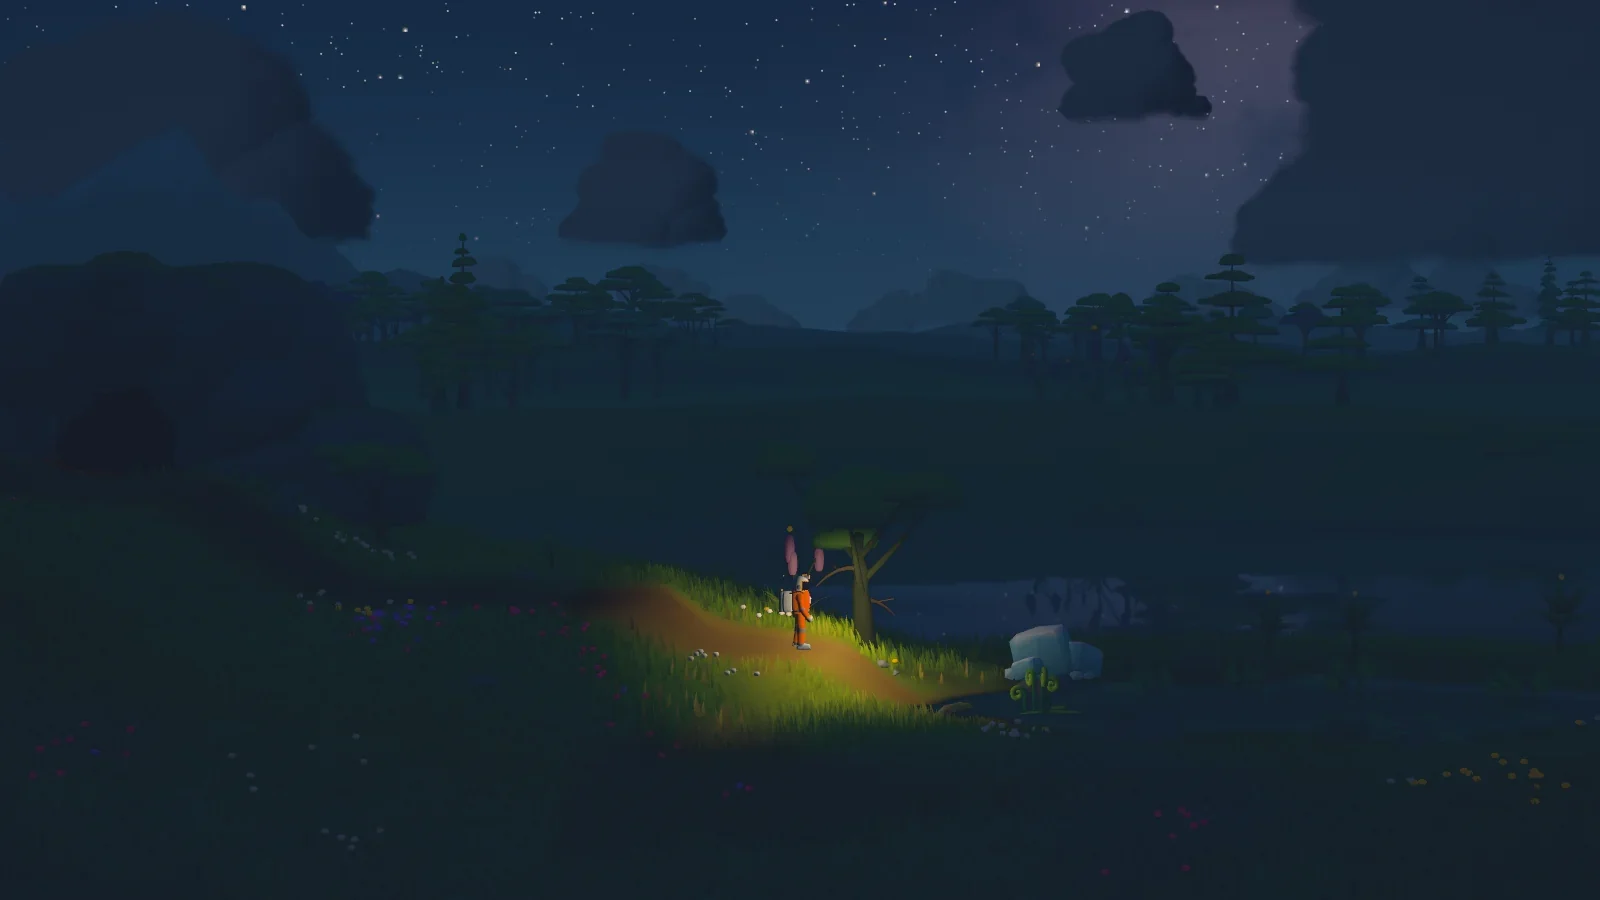
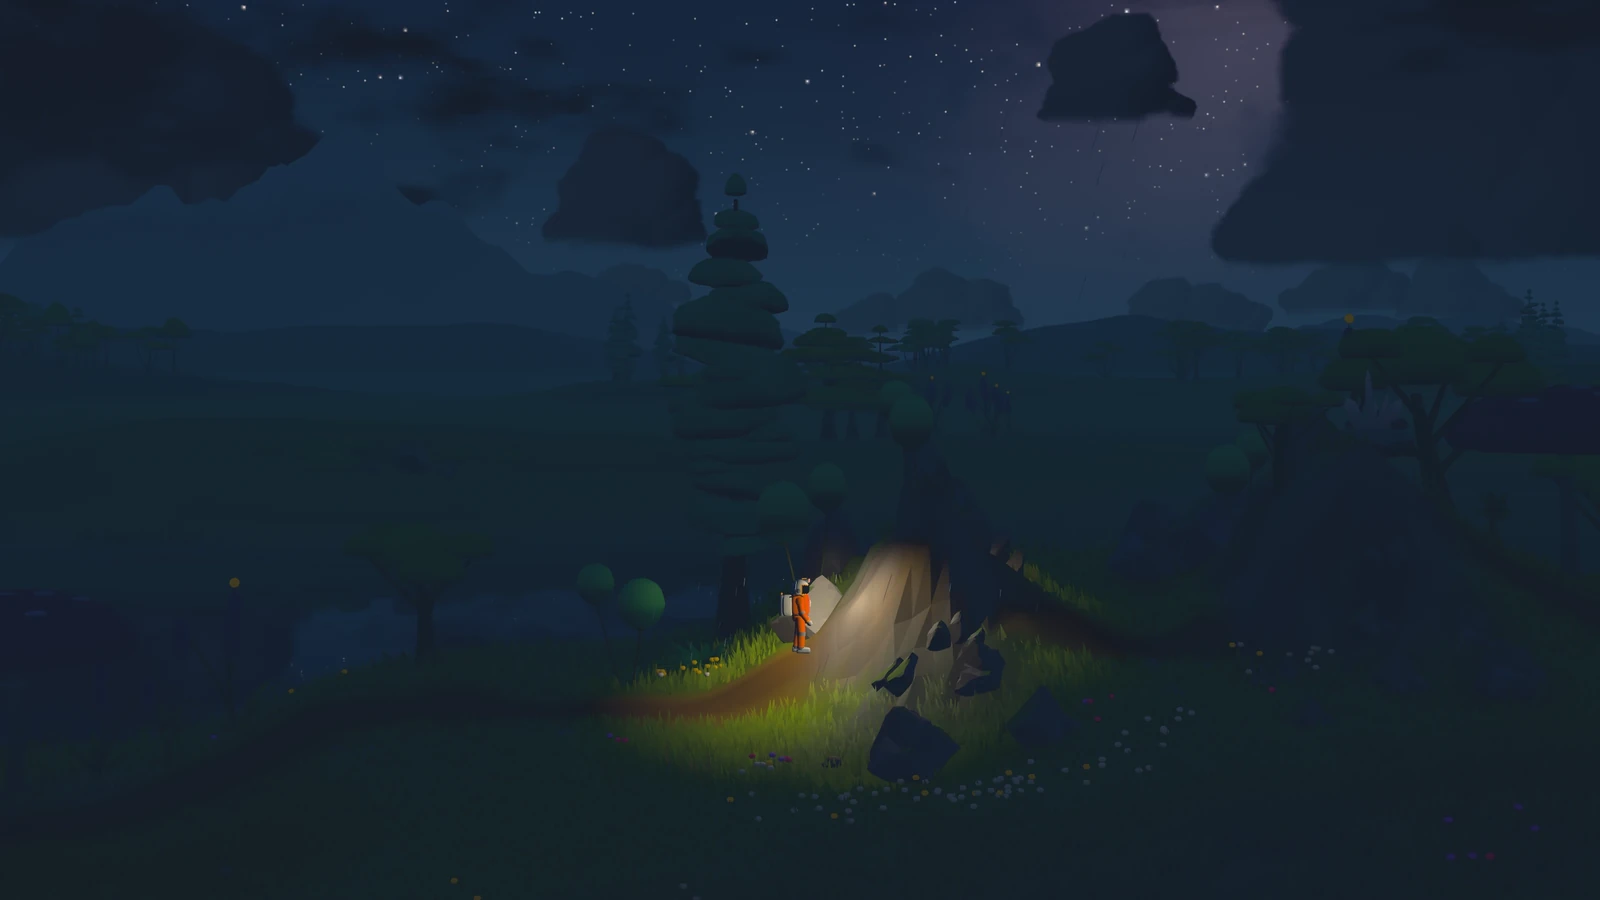
site: sharpen for 4K -- 3840 frames, gallery arrows, «what's new»
The author's screen is 4K: at 3840 CSS (100%) and at 2560 CSS x1.5 the
full-bleed frames needed 3840 device pixels and got 3200, a 1.2x
upscale. The seven full-bleed frames now have a 3840x2160 twin
(<name>-3840.webp, 98-449 KB, rendered from the same 0.498.3 stand at
--dpr 2.4) and the mechanics header is an <img> with the same srcset
instead of a CSS background that could only say 1x/2x.

ice and night are new frames: their scene scripts are not in the repo,
so the old 1600 files could not be reproduced at any higher density --
they were re-shot from the same stand (surface2, mkview night) at
3200/3840 and the old 1600 files replaced by the same frame, so all
three sizes are one picture. Look changed slightly (the ice frame is now
a ridge over a cave, the night one is the same place from another
camera).

Also: the gallery strip gets prev/next arrows on desktop (it showed two
and a half cards with no sign that it scrolls), and the roadmap gets a
«what's new» line with the live version from version.json.

diff --git a/site/index.html b/site/index.html
@@ -123,7 +123,7 @@
 <!-- ── сцены: по одному кадру на то, чем вы заняты ── -->
 <section class="scene right" id="planet">
   <div class="num"><b>01</b>посадка</div>
-  <div class="bg"><img src="/shots/land.webp" srcset="/shots/land.webp 1600w, /shots/land-2x.webp 3200w" sizes="100vw" width="1600" height="900" loading="lazy" alt="Корабль только что сел на зелёной планете у озера; вдали горы, в небе облака и гигантские грибы"></div>
+  <div class="bg"><img src="/shots/land.webp" srcset="/shots/land.webp 1600w, /shots/land-2x.webp 3200w, /shots/land-3840.webp 3840w" sizes="100vw" width="1600" height="900" loading="lazy" alt="Корабль только что сел на зелёной планете у озера; вдали горы, в небе облака и гигантские грибы"></div>
   <div class="shade"></div>
   <div class="in">
     <div class="plate amber">
@@ -138,7 +138,7 @@
 
 <section class="scene" id="walk">
   <div class="num"><b>02</b>пешком</div>
-  <div class="bg"><img src="/shots/ice.webp" width="1600" height="900" loading="lazy" alt="Ледяная планета на закате: корабль на снежном холме, человек в скафандре идёт по склону, вдали белая гора"></div>
+  <div class="bg"><img src="/shots/ice.webp" srcset="/shots/ice.webp 1600w, /shots/ice-2x.webp 3200w, /shots/ice-3840.webp 3840w" sizes="100vw" width="1600" height="900" loading="lazy" alt="Ледяная планета на закате: человек в скафандре стоит на снежном гребне над пещерой, вокруг склоны и белая гора вдали"></div>
   <div class="shade"></div>
   <div class="in">
     <div class="plate">
@@ -153,7 +153,7 @@
 
 <section class="scene right" id="cave">
   <div class="num"><b>03</b>под землёй</div>
-  <div class="bg"><img src="/shots/cave.webp" srcset="/shots/cave.webp 1600w, /shots/cave-2x.webp 3200w" sizes="100vw" width="1600" height="900" loading="lazy" alt="Пещера: человек в оранжевом скафандре с фонарём у подземного озера, вокруг сталактиты и кристаллы"></div>
+  <div class="bg"><img src="/shots/cave.webp" srcset="/shots/cave.webp 1600w, /shots/cave-2x.webp 3200w, /shots/cave-3840.webp 3840w" sizes="100vw" width="1600" height="900" loading="lazy" alt="Пещера: человек в оранжевом скафандре с фонарём у подземного озера, вокруг сталактиты и кристаллы"></div>
   <div class="shade"></div>
   <div class="in">
     <div class="plate">
@@ -168,7 +168,7 @@
 
 <section class="scene" id="fly">
   <div class="num"><b>04</b>полёт</div>
-  <div class="bg"><img src="/shots/sys.webp" srcset="/shots/sys.webp 1600w, /shots/sys-2x.webp 3200w" sizes="100vw" width="1600" height="900" loading="lazy" alt="Корабль у полосатой планеты среди лиловой туманности, рядом луны"></div>
+  <div class="bg"><img src="/shots/sys.webp" srcset="/shots/sys.webp 1600w, /shots/sys-2x.webp 3200w, /shots/sys-3840.webp 3840w" sizes="100vw" width="1600" height="900" loading="lazy" alt="Корабль у полосатой планеты среди лиловой туманности, рядом луны"></div>
   <div class="shade"></div>
   <div class="in">
     <div class="plate">
@@ -183,7 +183,7 @@
 
 <section class="scene right" id="station">
   <div class="num"><b>05</b>станция</div>
-  <div class="bg"><img src="/shots/station.webp" srcset="/shots/station.webp 1600w, /shots/station-2x.webp 3200w" sizes="100vw" width="1600" height="900" loading="lazy" alt="Торговый зал станции: стойка с продавцом, человек в скафандре у прилавка, справа таблица цен"></div>
+  <div class="bg"><img src="/shots/station.webp" srcset="/shots/station.webp 1600w, /shots/station-2x.webp 3200w, /shots/station-3840.webp 3840w" sizes="100vw" width="1600" height="900" loading="lazy" alt="Торговый зал станции: стойка с продавцом, человек в скафандре у прилавка, справа таблица цен"></div>
   <div class="shade"></div>
   <div class="in">
     <div class="plate amber">
@@ -224,6 +224,7 @@
     </div>
     <div class="hint">снято в игре · по клику во весь экран</div>
   </div>
+  <div class="strip-wrap">
   <div class="strip gal">
     <figure>
       <img src="/shots/desert.webp" loading="lazy" width="1600" height="900" alt="Пустынная планета: корабль на светлом песке, вдали столовые горы, человек идёт к залежам">
@@ -273,6 +274,9 @@
       <img src="/shots/home.webp" loading="lazy" width="1600" height="900" alt="Комната дома: стол под лампой, жилец, карта на стене">
       <figcaption><h3>Дом</h3><p>Стоит на своей планете. К нему идут пешком, в него заходят, и на стол ложатся письма и чужие дела.</p></figcaption>
     </figure>
+  </div>
+  <button class="strip-nav prev" type="button" aria-label="предыдущие кадры">‹</button>
+  <button class="strip-nav next" type="button" aria-label="следующие кадры">›</button>
   </div>
 </section>
 
@@ -382,10 +386,11 @@
     <div class="now"><i>●</i><span>Шахта в объёме — забой, крепь, свет лампы</span></div>
     <div class="now"><i>●</i><span>Дом, база и комнаты переезжают на тот же движок, что планета</span></div>
   </div>
+  <p class="fresh" id="fresh" hidden><span id="freshver"></span> · <a href="https://github.com/DrEgoroff-drift/drift/blob/main/PATCHNOTES.md" rel="noopener">что нового →</a></p>
 </section>
 
 <section class="end">
-  <div class="bg"><img src="/shots/night.webp" width="1600" height="900" loading="lazy" alt=""></div>
+  <div class="bg"><img src="/shots/night.webp" srcset="/shots/night.webp 1600w, /shots/night-2x.webp 3200w, /shots/night-3840.webp 3840w" sizes="100vw" width="1600" height="900" loading="lazy" alt=""></div>
   <div class="shade"></div>
   <h2>Полбака топлива уже залито</h2>
   <p>Загрузка занимает пару секунд. Регистрироваться не обязательно. Нужен браузер с WebGPU:
@@ -465,7 +470,37 @@ fetch("/version.json",{cache:"no-store"}).then(r=>r.json()).then(d=>{
   if(d.ver)b.push("версия "+d.ver);
   if(d.date)b.push("обновлено "+d.date);
   if(b.length)document.getElementById("ver").textContent=b.join(" · ");
+  /* «что нового»: версия на сайте уже есть, а ссылки на патчноуты не было —
+     строка «обновления выходят часто» висела без единого доказательства */
+  const f=document.getElementById("fresh"), fv=document.getElementById("freshver");
+  if(f&&fv&&d.ver){fv.textContent="сейчас в игре "+d.ver+(d.date?", "+d.date:"");f.hidden=false;}
 }).catch(()=>{});
+/* лента кадров: стрелки на десктопе (на тач-экранах их прячет CSS) */
+(function(){
+  const wrap=document.querySelector(".strip-wrap");if(!wrap)return;
+  const strip=wrap.querySelector(".strip"),nav=wrap.querySelectorAll(".strip-nav");
+  if(!strip||nav.length<2)return;
+  const step=()=>{const f=strip.querySelector("figure");
+    return f?Math.round(f.getBoundingClientRect().width)+18:600;};
+  /* «в начале» считаем по первой карточке, а не по scrollLeft: scroll-snap
+     тянет её к кромке скроллпорта, и на старте там уже не ноль (56 px). */
+  const atStart=()=>{
+    const f=strip.querySelector("figure"); if(!f) return strip.scrollLeft<=4;
+    const pad=parseFloat(getComputedStyle(strip).paddingLeft)||0;
+    return f.getBoundingClientRect().left<=strip.getBoundingClientRect().left+pad+2;
+  };
+  const upd=()=>{
+    const can=strip.scrollWidth>strip.clientWidth+8;
+    nav.forEach(b=>b.classList.toggle("on",can));
+    nav[0].disabled=atStart();
+    nav[1].disabled=strip.scrollLeft+strip.clientWidth>=strip.scrollWidth-4;
+  };
+  nav[0].onclick=()=>strip.scrollBy({left:-step(),behavior:"smooth"});
+  nav[1].onclick=()=>strip.scrollBy({left:step(),behavior:"smooth"});
+  strip.addEventListener("scroll",upd,{passive:true});
+  addEventListener("resize",upd);
+  upd();setTimeout(upd,400);
+})();
 </script>
 </body>
 </html>

diff --git a/site/site.css b/site/site.css
@@ -110,7 +110,7 @@ p.dim{color:var(--dim)}
 .hero .who a,.hero .who .linkish{color:var(--phos)}
 .hero .down{position:absolute;right:var(--gut);bottom:28px;font-family:var(--mono);font-size:11px;letter-spacing:.2em;
   color:var(--dim);text-transform:uppercase;writing-mode:vertical-rl;opacity:.8}
-@media(max-width:720px){.hero .down{display:none}.hero .in{padding-top:90px;padding-bottom:40px}}
+@media(max-width:720px){.hero .down{display:none}.hero .in{padding-top:90px;padding-bottom:40px}.hero .tag{font-size:11px;letter-spacing:.12em}}
 
 /* ── строка фактов ── */
 .facts{position:relative;z-index:3;border-top:1px solid var(--line);border-bottom:1px solid var(--line);
@@ -162,10 +162,24 @@ section.sec.tight{padding-top:64px;padding-bottom:64px}
 .strip figcaption p{font-size:14px;color:var(--dim);line-height:1.5}
 .strip-head{display:flex;align-items:flex-end;justify-content:space-between;gap:20px;max-width:var(--max);margin:0 auto;padding:0 var(--gut) 22px}
 .strip-head .hint{font-family:var(--mono);font-size:11px;letter-spacing:.18em;color:var(--dim);text-transform:uppercase;white-space:nowrap}
-/* На телефоне шапка ленты не влезала в строку: подпись «снято в игре…» с
-   nowrap и заголовок вместе давали 439 px при экране 390 — и вся заглавная
-   ехала вбок на 49 px (на 320 — на 119). Пусть шапка переносится, а подпись
-   ломается по словам: это подпись, а не строка таблицы. */
+/* Стрелки ленты. На десктопе в кадре две с половиной карточки, третья
+   обрезана краем — без стрелок не видно, что лента вообще листается. На
+   тач-экранах они не нужны: там свайп, и кнопка только мешает кадру. */
+.strip-nav{position:absolute;top:132px;z-index:2;width:46px;height:46px;padding:0 0 3px;
+  display:none;align-items:center;justify-content:center;cursor:pointer;
+  border:1px solid var(--hair);background:rgba(5,7,12,.72);color:var(--phos);
+  font:400 24px/1 var(--mono);backdrop-filter:blur(6px);-webkit-backdrop-filter:blur(6px);
+  clip-path:polygon(0 0,calc(100% - 10px) 0,100% 10px,100% 100%,0 100%);
+  transition:background .18s,color .18s}
+.strip-nav:hover{background:rgba(127,230,216,.14);color:var(--bright)}
+.strip-nav.prev{left:10px}.strip-nav.next{right:10px}
+.strip-nav.on{display:flex}
+.strip-nav[disabled]{opacity:.28;cursor:default}
+@media(pointer:coarse){.strip-nav{display:none!important}}
+@media(max-width:600px){.strip-nav{display:none!important}}
+/* «что нового» под дорожной картой: версия и дата из version.json */
+.fresh{margin-top:26px;font-family:var(--mono);font-size:12px;letter-spacing:.06em;color:var(--dim)}
+.fresh a{color:var(--phos)}
 @media(max-width:760px){
   .strip-head{flex-wrap:wrap;align-items:flex-start;gap:6px}
   .strip-head .hint{white-space:normal;letter-spacing:.12em}

diff --git a/site/mechanics.html b/site/mechanics.html
@@ -107,7 +107,8 @@
 <style>
 /* «Как играть» (15.10.2026): та же плита и те же шрифты, что на заглавной; шапка — кадр кабины */
 .phead{position:relative;min-height:46vh;display:flex;align-items:flex-end;overflow:hidden}
-.phead .bg{position:absolute;inset:0;background:url(/shots/cockpit.webp) center 40%/cover no-repeat;background-image:image-set(url(/shots/cockpit.webp) 1x,url(/shots/cockpit-2x.webp) 2x);transform:scale(1.04)}
+.phead .bg{position:absolute;inset:0;transform:scale(1.04);overflow:hidden}
+.phead .bg img{display:block;width:100%;height:100%;object-fit:cover;object-position:50% 40%}
 .phead .shade{position:absolute;inset:0;background:linear-gradient(180deg,rgba(5,7,12,.55),rgba(5,7,12,.15) 40%,var(--void) 100%)}
 .phead .in{position:relative;z-index:2;max-width:var(--max);margin:0 auto;width:100%;padding:130px var(--gut) 34px}
 .phead h1{font-size:clamp(38px,6.5vw,76px);margin-bottom:14px}
@@ -181,7 +182,7 @@ kbd{display:inline-block;min-width:26px;padding:3px 8px;text-align:center;font-f
 </header>
 
 <section class="phead">
-  <div class="bg"></div><div class="shade"></div>
+  <div class="bg"><img src="/shots/cockpit.webp" srcset="/shots/cockpit.webp 1600w, /shots/cockpit-2x.webp 3200w, /shots/cockpit-3840.webp 3840w" sizes="100vw" alt=""></div><div class="shade"></div>
   <div class="in">
     <div class="eyebrow">читать необязательно · игра всё подсказывает сама</div>
     <h1>Как <b>играть</b></h1>
